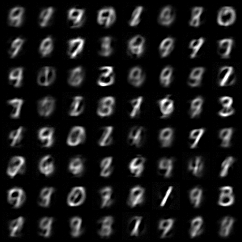
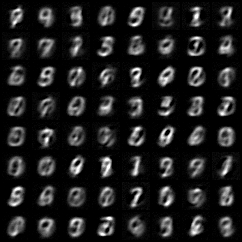
fixed strong convex scale problem

diff --git a/train_ot.py b/train_ot.py
@@ -48,25 +48,24 @@ class Synthetic(data.Dataset):
         #self.y = self.y['Y']
        
         #spiral
+        '''
         self.y, _ = make_spiral(n_samples_per_class=self.n, n_classes=1,
             n_rotations=2.5, gap_between_spiral=0.1, noise=0.2,
                 gap_between_start_point=0.1, equal_interval=True)
-
+        '''
         #self.y = np.random.standard_t(df=2, size=(args.n, 2))
 
         #mnist
-        '''
         transform=transforms.Compose([transforms.ToTensor()])
         self.y_ = datasets.MNIST('../data', train=True, download=True,transform=transform)
-        self.y = self.y_.data.flatten(-2, -1)/255.
-        '''
+        self.y = self.y_.data.flatten(-2, -1).float()/255.
 
     def __len__(self):
-        return len(self.y)#self.y
+        return 5000# len(self.y)#self.y
 
     def __getitem__(self, i):
         if torch.is_tensor(self.y):
-            return self.y[i].float()
+            return self.y[i].cuda() / 255.
         return torch.from_numpy(self.y[i]).float().cuda()
 
 
@@ -122,34 +121,32 @@ def test(net, args, name, loader, Y):
     if args.gaussian_support: 
         gauss = torch.distributions.normal.Normal(torch.tensor([0.]).cuda(), torch.tensor([1.]).cuda())
 
-    U = torch.rand(size=(args.n, args.dims), requires_grad=True).cuda()
+    #U = torch.rand(size=(args.n, args.dims), requires_grad=True).cuda()
+    U = torch.rand(size=(64, 784), requires_grad=True).cuda()
     U_ = torch.clone(U)
     if args.gaussian_support:
         U = gauss.icdf(U)
-        
-    #U = torch.rand(size=(64, 784), requires_grad=True).cuda()
     f = net(U).sum()
     Y_hat = torch.autograd.grad(f, U, create_graph=True)[0]
     print("max and min points generated: " + str(Y_hat.max()) + " " + str(Y_hat.min()))
+    '''
     inverse = net.invert(Y_hat)
     if args.gaussian_support:
         inverse = gauss.cdf(inverse)
     m = (U_ - inverse).abs().max().item()
     print("max error of inversion: " + str(m))
-
     data = torch.sort(Y, dim=0)[0]
     z = net.invert(data)
     if args.gaussian_support:
         z = gauss.cdf(z)
     print("sampled points from target, sorted: " + str(data))
     print("corresponding quantiles: " + str(z))
-    #mnist
     '''
+    #mnist
     Y_hat = Y_hat.view(64, 28, 28).unsqueeze(1)
     utils.save_image(utils.make_grid(Y_hat),
         './mnist.png')
     return
-    '''
     if args.dims == 1:
         histogram(Y_hat, name) # uncomment for 1d case
     else:
@@ -175,23 +172,25 @@ def dual(U, Y_hat, Y, eps=0):
 def train(net, optimizer, loader, ds, args):
     m = torch.distributions.normal.Normal(torch.tensor([0.]).cuda(), torch.tensor([1.]).cuda())
     k = args.k
+    print(ds.shape)
+    print(ds.min(), ds.max())
     for epoch in range(1, args.epoch+1):
-        for idx, Y in enumerate(loader):
-            u = torch.rand(size=(args.batch_size, args.dims)).cuda()
-            if args.gaussian_support:
-                u = m.icdf(u)
-            running_loss = 0.0
-            optimizer.zero_grad()
-            loss = 0
-            Y_hat = net(u)
-            loss += dual(U=u, Y_hat=Y_hat, Y=Y, eps=args.eps)
-            loss.backward()
-            optimizer.step()
+        #for idx, Y in enumerate(loader):
+        #u = torch.rand(size=(args.batch_size, args.dims)).cuda()
+        u = torch.rand(size=(5000, args.dims)).cuda()
+        if args.gaussian_support:
+            u = m.icdf(u)
+        running_loss = 0.0
+        optimizer.zero_grad()
+        Y_hat = net(u)
+        loss = dual(U=u, Y_hat=Y_hat, Y=ds, eps=args.eps)
+        loss.backward()
+        optimizer.step()
 
-            for p in positive_params:
-                p.data.copy_(torch.relu(p.data))
-            running_loss += loss.item()
-        if epoch % (args.epoch // 10) == 0:
+        for p in positive_params:
+            p.data.copy_(torch.relu(p.data))
+        running_loss += loss.item()
+        if epoch % (args.epoch // 50) == 0:
             print('%.5f' %
             (running_loss/args.iters))
     test(net, args, name='imgs/trained.png', loader=loader, Y=ds)
@@ -232,8 +231,8 @@ if __name__ == "__main__":
         print("{:16} {}".format(key, val))
 
     torch.cuda.set_device('cuda:0')
-    net = ICNN_LastInp_Quadratic(input_dim=args.dims,#784,
-                                 hidden_dim=512,#1024,
+    net = ICNN_LastInp_Quadratic(input_dim=784,#args.dims
+                                 hidden_dim=1024,#512
                                  activation='celu',
                                  num_layer=3)
                                  
@@ -247,8 +246,8 @@ if __name__ == "__main__":
     optimizer = optimizer(net, args)
     net.cuda()
     #train(net, optimizer, torch.from_numpy(ds.y).float().cuda(), args)
-    train(net, optimizer, loader, torch.from_numpy(ds.y).float().cuda(), args)
-    #train(net, optimizer, ds.y[:args.n].float().cuda(), args)
+    #train(net, optimizer, loader, torch.from_numpy(ds.y).float().cuda(), args)
+    train(net, optimizer, loader, ds.y[:args.n].float().cuda(), args)
 
     if args.genTheor:
         Y = torch.from_numpy(ds.y)

diff --git a/ot_modules/icnn.py b/ot_modules/icnn.py
@@ -226,7 +226,7 @@ class ICNN_LastInp_Quadratic(nn.Module):
                 x).add(self.normal[i](input)))
 
         x = self.last_convex(x).add(self.last_linear(input).pow(2))
-        quad = (input.view(input.size(0), -1) ** 2).sum(1, keepdim=True) / 2 
+        quad = (input.view(input.size(0), -1) ** 2).sum(1, keepdim=True) / input.shape[1]
         return x + quad
 
     def invert(self, y, max_iter=1000000, lr=1.0, tol=1e-12):
